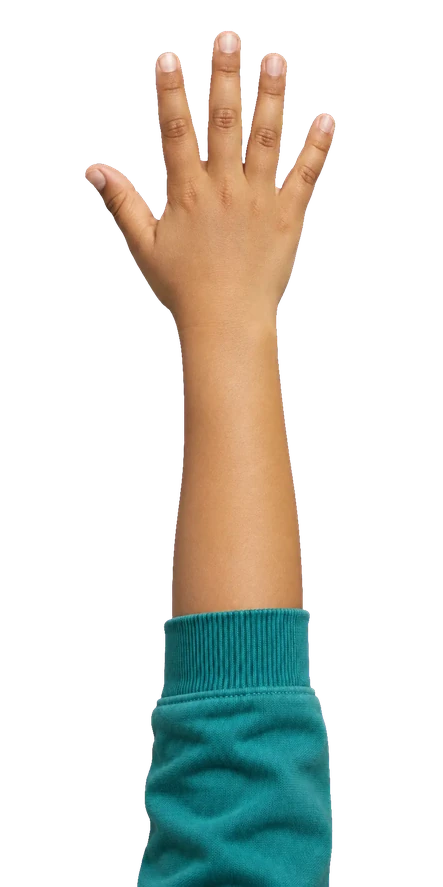
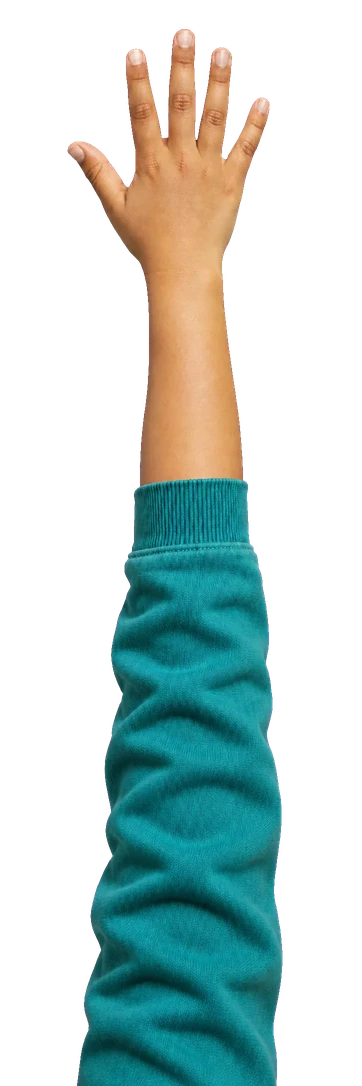
Codex pack 18: long cat foreleg and long kid arm wired with new landmarks; paw depth capped to the leg so the root never shows
Claude-Session: https://claude.ai/code/session_01Eog2ZVK2eTB5zzccR44cED

Changed region(s): [[0.1823, 0.0, 0.7901, 1.0]]

diff --git a/public/art-archive/index.html b/public/art-archive/index.html
@@ -43,7 +43,7 @@
 <a href="https://raw.githubusercontent.com/MVHProvGrd/magnet-climbers/main/art/archive/16-pop-it-motion-v1/motion-review-sheet.png" target="_blank"><img class="sheet" loading="lazy" src="https://raw.githubusercontent.com/MVHProvGrd/magnet-climbers/main/art/archive/16-pop-it-motion-v1/motion-review-sheet.png"></a>
 <div class="grid"></div></section><section id="17-cat-paw-claws-v2"><h2>17-cat-paw-claws-v2 <small>5 files</small></h2><p></p><p class="meta"><b>From:</b>  · <b>Live in:</b> </p>
 <a href="https://raw.githubusercontent.com/MVHProvGrd/magnet-climbers/main/art/archive/17-cat-paw-claws-v2/motion-review-sheet.png" target="_blank"><img class="sheet" loading="lazy" src="https://raw.githubusercontent.com/MVHProvGrd/magnet-climbers/main/art/archive/17-cat-paw-claws-v2/motion-review-sheet.png"></a>
-<div class="grid"><a class="t" href="https://raw.githubusercontent.com/MVHProvGrd/magnet-climbers/main/art/archive/17-cat-paw-claws-v2/cutout-review.png" target="_blank"><img loading="lazy" src="https://raw.githubusercontent.com/MVHProvGrd/magnet-climbers/main/art/archive/17-cat-paw-claws-v2/cutout-review.png" alt="17-cat-paw-claws-v2/cutout-review.png"><span>cutout-review.png</span></a><a class="t" href="https://raw.githubusercontent.com/MVHProvGrd/magnet-climbers/main/art/archive/17-cat-paw-claws-v2/motion-review-v2.gif" target="_blank"><img loading="lazy" src="https://raw.githubusercontent.com/MVHProvGrd/magnet-climbers/main/art/archive/17-cat-paw-claws-v2/motion-review-v2.gif" alt="17-cat-paw-claws-v2/motion-review-v2.gif"><span>motion-review-v2.gif</span></a><a class="t" href="https://raw.githubusercontent.com/MVHProvGrd/magnet-climbers/main/art/archive/17-cat-paw-claws-v2/ready/cat-paw-back-claws-v2.webp" target="_blank"><img loading="lazy" src="https://raw.githubusercontent.com/MVHProvGrd/magnet-climbers/main/art/archive/17-cat-paw-claws-v2/ready/cat-paw-back-claws-v2.webp" alt="17-cat-paw-claws-v2/ready/cat-paw-back-claws-v2.webp"><span>ready/cat-paw-back-claws-v2.webp</span></a><a class="t" href="https://raw.githubusercontent.com/MVHProvGrd/magnet-climbers/main/art/archive/17-cat-paw-claws-v2/sources/cat-paw-back-claws-v2-magenta.png" target="_blank"><img loading="lazy" src="https://raw.githubusercontent.com/MVHProvGrd/magnet-climbers/main/art/archive/17-cat-paw-claws-v2/sources/cat-paw-back-claws-v2-magenta.png" alt="17-cat-paw-claws-v2/sources/cat-paw-back-claws-v2-magenta.png"><span>sources/cat-paw-back-claws-v2-magenta.png</span></a></div></section><section id="18-extended-limbs-v1"><h2>18-extended-limbs-v1 <small>5 files</small></h2><p>Longer cat foreleg and boy teal sleeve, sources, cutouts and light/dark review. Camera-safe root/retraction handoff.</p><p class="meta"><b>From:</b> Codex built-in imagegen edits · <b>Live in:</b> Review only; Claude wires new source coordinates and withdrawal</p>
+<div class="grid"><a class="t" href="https://raw.githubusercontent.com/MVHProvGrd/magnet-climbers/main/art/archive/17-cat-paw-claws-v2/cutout-review.png" target="_blank"><img loading="lazy" src="https://raw.githubusercontent.com/MVHProvGrd/magnet-climbers/main/art/archive/17-cat-paw-claws-v2/cutout-review.png" alt="17-cat-paw-claws-v2/cutout-review.png"><span>cutout-review.png</span></a><a class="t" href="https://raw.githubusercontent.com/MVHProvGrd/magnet-climbers/main/art/archive/17-cat-paw-claws-v2/motion-review-v2.gif" target="_blank"><img loading="lazy" src="https://raw.githubusercontent.com/MVHProvGrd/magnet-climbers/main/art/archive/17-cat-paw-claws-v2/motion-review-v2.gif" alt="17-cat-paw-claws-v2/motion-review-v2.gif"><span>motion-review-v2.gif</span></a><a class="t" href="https://raw.githubusercontent.com/MVHProvGrd/magnet-climbers/main/art/archive/17-cat-paw-claws-v2/ready/cat-paw-back-claws-v2.webp" target="_blank"><img loading="lazy" src="https://raw.githubusercontent.com/MVHProvGrd/magnet-climbers/main/art/archive/17-cat-paw-claws-v2/ready/cat-paw-back-claws-v2.webp" alt="17-cat-paw-claws-v2/ready/cat-paw-back-claws-v2.webp"><span>ready/cat-paw-back-claws-v2.webp</span></a><a class="t" href="https://raw.githubusercontent.com/MVHProvGrd/magnet-climbers/main/art/archive/17-cat-paw-claws-v2/sources/cat-paw-back-claws-v2-magenta.png" target="_blank"><img loading="lazy" src="https://raw.githubusercontent.com/MVHProvGrd/magnet-climbers/main/art/archive/17-cat-paw-claws-v2/sources/cat-paw-back-claws-v2-magenta.png" alt="17-cat-paw-claws-v2/sources/cat-paw-back-claws-v2-magenta.png"><span>sources/cat-paw-back-claws-v2-magenta.png</span></a></div></section><section id="18-extended-limbs-v1"><h2>18-extended-limbs-v1 <small>5 files</small></h2><p>Longer cat foreleg and boy teal sleeve, sources, cutouts and light/dark review. Camera-safe root/retraction handoff.</p><p class="meta"><b>From:</b> Codex built-in imagegen edits · <b>Live in:</b> LIVE: both in `real-v1/` (cat-paw.webp, kid-arm.webp); paw depth capped to the leg, sleeve/leg bands only repeat as a fallback</p>
 
 <div class="grid"><a class="t" href="https://raw.githubusercontent.com/MVHProvGrd/magnet-climbers/main/art/archive/18-extended-limbs-v1/cutout-review.png" target="_blank"><img loading="lazy" src="https://raw.githubusercontent.com/MVHProvGrd/magnet-climbers/main/art/archive/18-extended-limbs-v1/cutout-review.png" alt="18-extended-limbs-v1/cutout-review.png"><span>cutout-review.png</span></a><a class="t" href="https://raw.githubusercontent.com/MVHProvGrd/magnet-climbers/main/art/archive/18-extended-limbs-v1/ready/cat-foreleg-long-v3.webp" target="_blank"><img loading="lazy" src="https://raw.githubusercontent.com/MVHProvGrd/magnet-climbers/main/art/archive/18-extended-limbs-v1/ready/cat-foreleg-long-v3.webp" alt="18-extended-limbs-v1/ready/cat-foreleg-long-v3.webp"><span>ready/cat-foreleg-long-v3.webp</span></a><a class="t" href="https://raw.githubusercontent.com/MVHProvGrd/magnet-climbers/main/art/archive/18-extended-limbs-v1/ready/kid-arm-long-v2.webp" target="_blank"><img loading="lazy" src="https://raw.githubusercontent.com/MVHProvGrd/magnet-climbers/main/art/archive/18-extended-limbs-v1/ready/kid-arm-long-v2.webp" alt="18-extended-limbs-v1/ready/kid-arm-long-v2.webp"><span>ready/kid-arm-long-v2.webp</span></a><a class="t" href="https://raw.githubusercontent.com/MVHProvGrd/magnet-climbers/main/art/archive/18-extended-limbs-v1/sources/cat-foreleg-long-v3-magenta.png" target="_blank"><img loading="lazy" src="https://raw.githubusercontent.com/MVHProvGrd/magnet-climbers/main/art/archive/18-extended-limbs-v1/sources/cat-foreleg-long-v3-magenta.png" alt="18-extended-limbs-v1/sources/cat-foreleg-long-v3-magenta.png"><span>sources/cat-foreleg-long-v3-magenta.png</span></a><a class="t" href="https://raw.githubusercontent.com/MVHProvGrd/magnet-climbers/main/art/archive/18-extended-limbs-v1/sources/kid-arm-long-v2-magenta.png" target="_blank"><img loading="lazy" src="https://raw.githubusercontent.com/MVHProvGrd/magnet-climbers/main/art/archive/18-extended-limbs-v1/sources/kid-arm-long-v2-magenta.png" alt="18-extended-limbs-v1/sources/kid-arm-long-v2-magenta.png"><span>sources/kid-arm-long-v2-magenta.png</span></a></div></section><script>
 if(location.protocol==='file:') document.querySelectorAll('[src],[href]').forEach(el=>{

diff --git a/src/game/cat-paw.ts b/src/game/cat-paw.ts
@@ -4,10 +4,14 @@ import { objectArtById } from "./gadget-art";
 /** The cat's paw: comes down from the top of the screen at a random x, taps three times, retreats. */
 export interface CatPaw { x: number; t: number; hit: Set<number>; marked?: number }
 export const PAW_DURATION = 1.65;
+/** leg length above the pad centre at game scale (pack 18 art): how deep a tap can go before the root would show */
+const PAW_LEG = 1840 * (120 / 454);
 /** when each tap first touches the door */
 export const PAW_TAPS = [0.48, 0.87, 1.25];
-/** the four claw tips relative to the pose centre (Codex's study, same 0.24 scale as the game) */
-export const CLAW_TIPS: readonly [number, number][] = [[-36, 35], [-8, 55], [21, 54], [48, 31]];
+/** Codex pack 18 long foreleg (725x2170): pad centre and claw row as fractions; the paw is drawn ~120 px wide */
+const PAW = { padX: 365 / 725, padY: 1840 / 2170, width: 454 / 725 };
+/** the four claw tips relative to the pad centre at game scale */
+export const CLAW_TIPS: readonly [number, number][] = [[-38, 50], [-13, 64], [12, 64], [37, 50]];
 /** A claw mark on the door: world coordinates, fades over SCRATCH_LIFE seconds. */
 export interface Scratch { x: number; y: number; born: number }
 export const SCRATCH_LIFE = 1.6;
@@ -27,7 +31,8 @@ const smooth = (t: number) => t * t * (3 - 2 * t);
 /** Pad centre in world coordinates (the paw hangs from the camera's top edge) and whether it is touching the door. */
 export function pawPose(p: CatPaw, camY: number, viewH: number): Vec & { contact: boolean; warn: number } {
   const t = Math.min(p.t, PAW_DURATION);
-  const reach = viewH * 0.55 + 30; // the selected climber sits at 55% of the view; the deepest tap lands on it
+  // the selected climber sits at 55% of the view; the deepest tap lands on it, capped so the leg's root never shows
+  const reach = Math.min(viewH * 0.55 + 30, PAW_LEG - 40);
   const depth = (k: number) => (k < 0 ? k : k * reach);
   let y = -70;
   for (let i = 1; i < KEYS.length; i++) if (t <= KEYS[i][0]) {
@@ -46,8 +51,8 @@ export function drawCatPaw(ctx: CanvasRenderingContext2D, p: CatPaw, camY: numbe
   }
   if (art) {
     const iw = (art as HTMLImageElement).naturalWidth || 1, ih = (art as HTMLImageElement).naturalHeight || 1;
-    const s = 246 / iw; // about 120 px of paw, like the study
-    const x0 = pose.x - iw * (510 / 1024) * s, y0 = pose.y - ih * (1080 / 1536) * s;
+    const s = 120 / (PAW.width * iw); // about 120 px of paw, like the study
+    const x0 = pose.x - iw * PAW.padX * s, y0 = pose.y - ih * PAW.padY * s;
     ctx.save(); ctx.shadowColor = "rgba(30,28,35,0.30)"; ctx.shadowBlur = 12; ctx.shadowOffsetX = 8; ctx.shadowOffsetY = 12;
     ctx.drawImage(art, x0, y0, iw * s, ih * s);
     // the leg never ends on screen: repeat a plain band of foreleg fur upward past the camera's top edge

diff --git a/src/game/kid-hand.ts b/src/game/kid-hand.ts
@@ -101,7 +101,8 @@ export function handTouches(h: KidHand, p: Vec, pad = 8): boolean {
 /** Codex's photographed arm (pack 12), rigid like its motion study: fingers up, wrist at 39% of the height, cuff from 79%.
  * Hand, forearm and cuff are one piece at natural proportions along the swipe angle; only the plain sweater fabric
  * past the cuff is extended so the sleeve always runs offscreen. Fractions of the image, so any export size works. */
-const ARM = { tipRow: 0.04, wristRow: 0.395, centreCol: 0.50 };
+/** Codex pack 18 long arm (724x2172): highest fingertip row 58, wrist row 560, hand centre column 350 */
+const ARM = { tipRow: 58 / 2172, wristRow: 560 / 2172, centreCol: 350 / 724 };
 const ARM_SCALE = 1.6;
 function drawPhotoArm(ctx: CanvasRenderingContext2D, pose: ReturnType<typeof handPose>, arm: CanvasImageSource) {
   const iw = (arm as HTMLImageElement).naturalWidth || (arm as HTMLCanvasElement).width || 1;

diff --git a/art/archive/README.md b/art/archive/README.md
@@ -5,7 +5,7 @@ complete set. Git history has the code that drew or loaded each one; the commit 
 
 | Folder | What | Where it came from | Live in |
 |---|---|---|---|
-| `18-extended-limbs-v1/` | Longer cat foreleg and boy teal sleeve, sources, cutouts and light/dark review. Camera-safe root/retraction handoff. | Codex built-in imagegen edits | Review only; Claude wires new source coordinates and withdrawal |
+| `18-extended-limbs-v1/` | Longer cat foreleg and boy teal sleeve, sources, cutouts and light/dark review. Camera-safe root/retraction handoff. | Codex built-in imagegen edits | LIVE: both in `real-v1/` (cat-paw.webp, kid-arm.webp); paw depth capped to the leg, sleeve/leg bands only repeat as a fallback |
 | `15-cat-paw-attack-v1/` | Realistic tabby paw, source, hard/soft cleanup history, light/dark QC and three-tap GIF. Prefer hard cutout; soft rejected. | Codex built-in imagegen and isolated animation review | LIVE: cat paw attack (a third of attacks in v13 worlds), `real-v1/cat-paw.webp` |
 | `16-pop-it-motion-v1/` | Ten independently toggled photographic bubbles and synthesized pop audio; reuses pack 14 | Codex isolated interaction review, no new generation | LIVE: POP! bubbles flip on contact with pop sounds |
 | `01-canvas-drawn/` | Hand-drawn Canvas 2D art rendered to PNG at 4x: badge pickups (`pickups-badges`, the first style), object pickups (`pickups-objects`), obstacles (glass, plastic, gap, vent, attract, repel, handles, dispenser, calendar, ice tray), 24 sticker prints, bumpers | Claude, `src/game/fridge-art.ts`, `item-art.ts`, `scenery.ts` (`drawLegacyPower`) | 75f276c (scenery pass) → still the fallback when an image fails to load |
